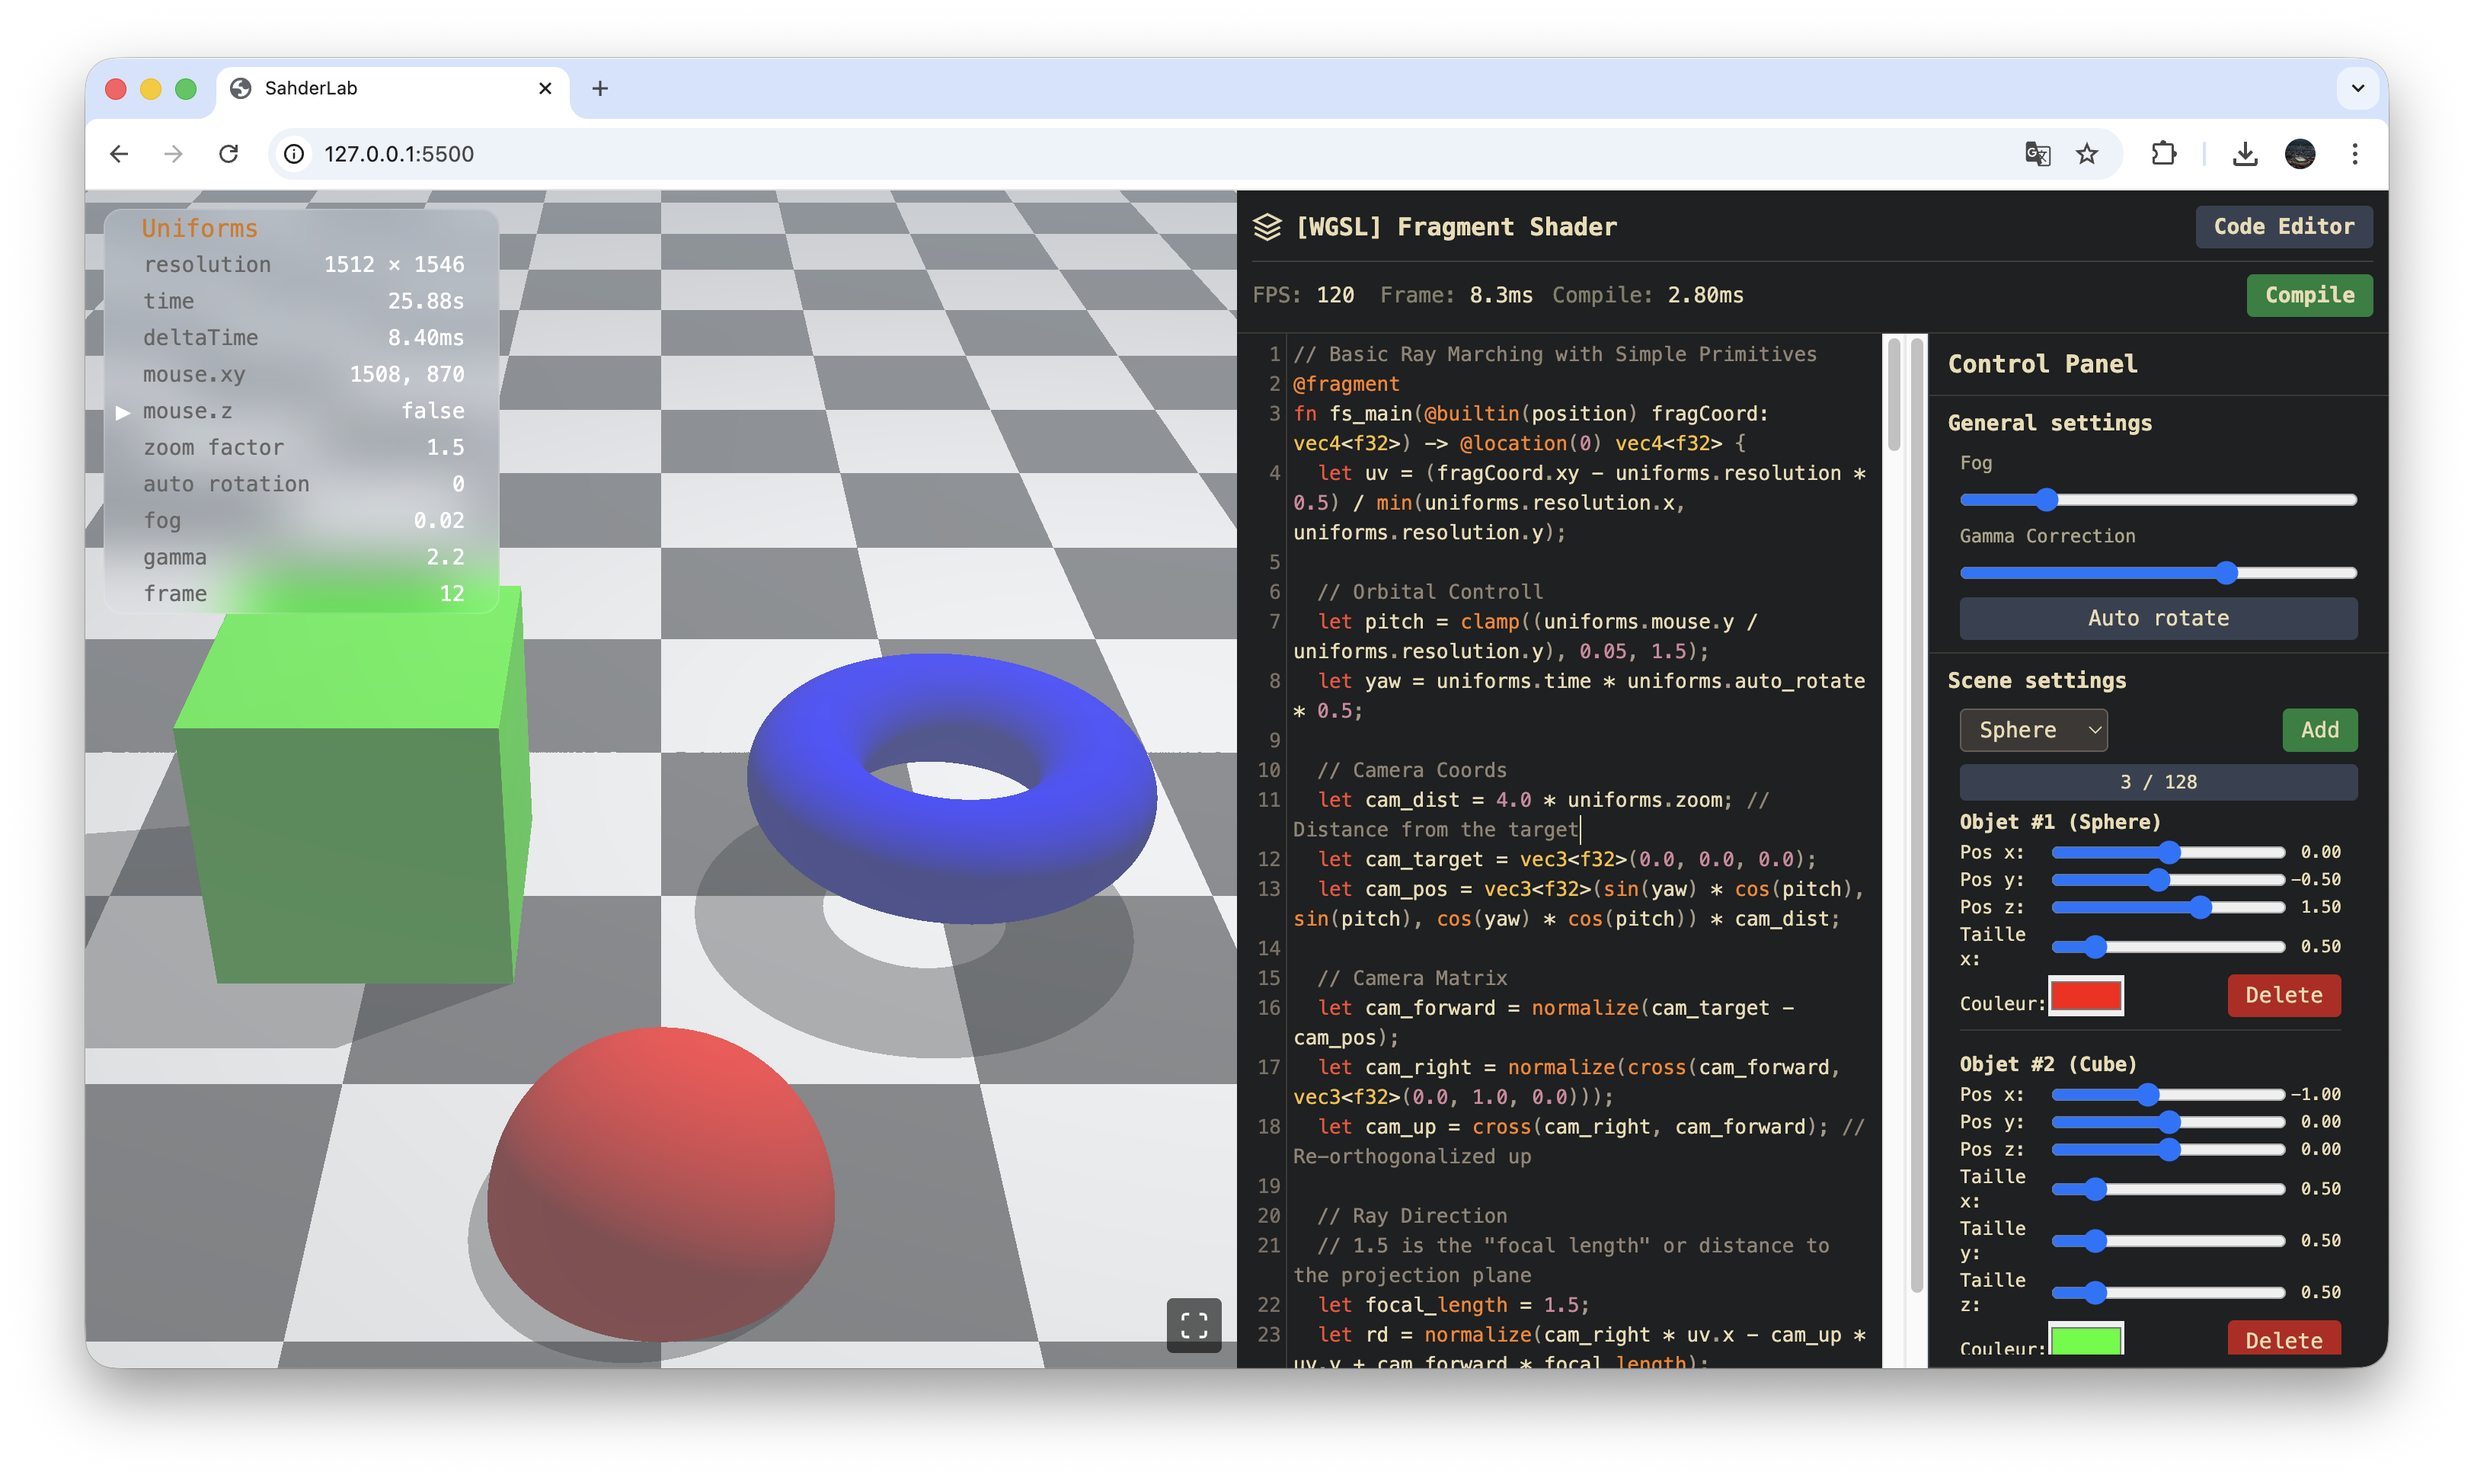
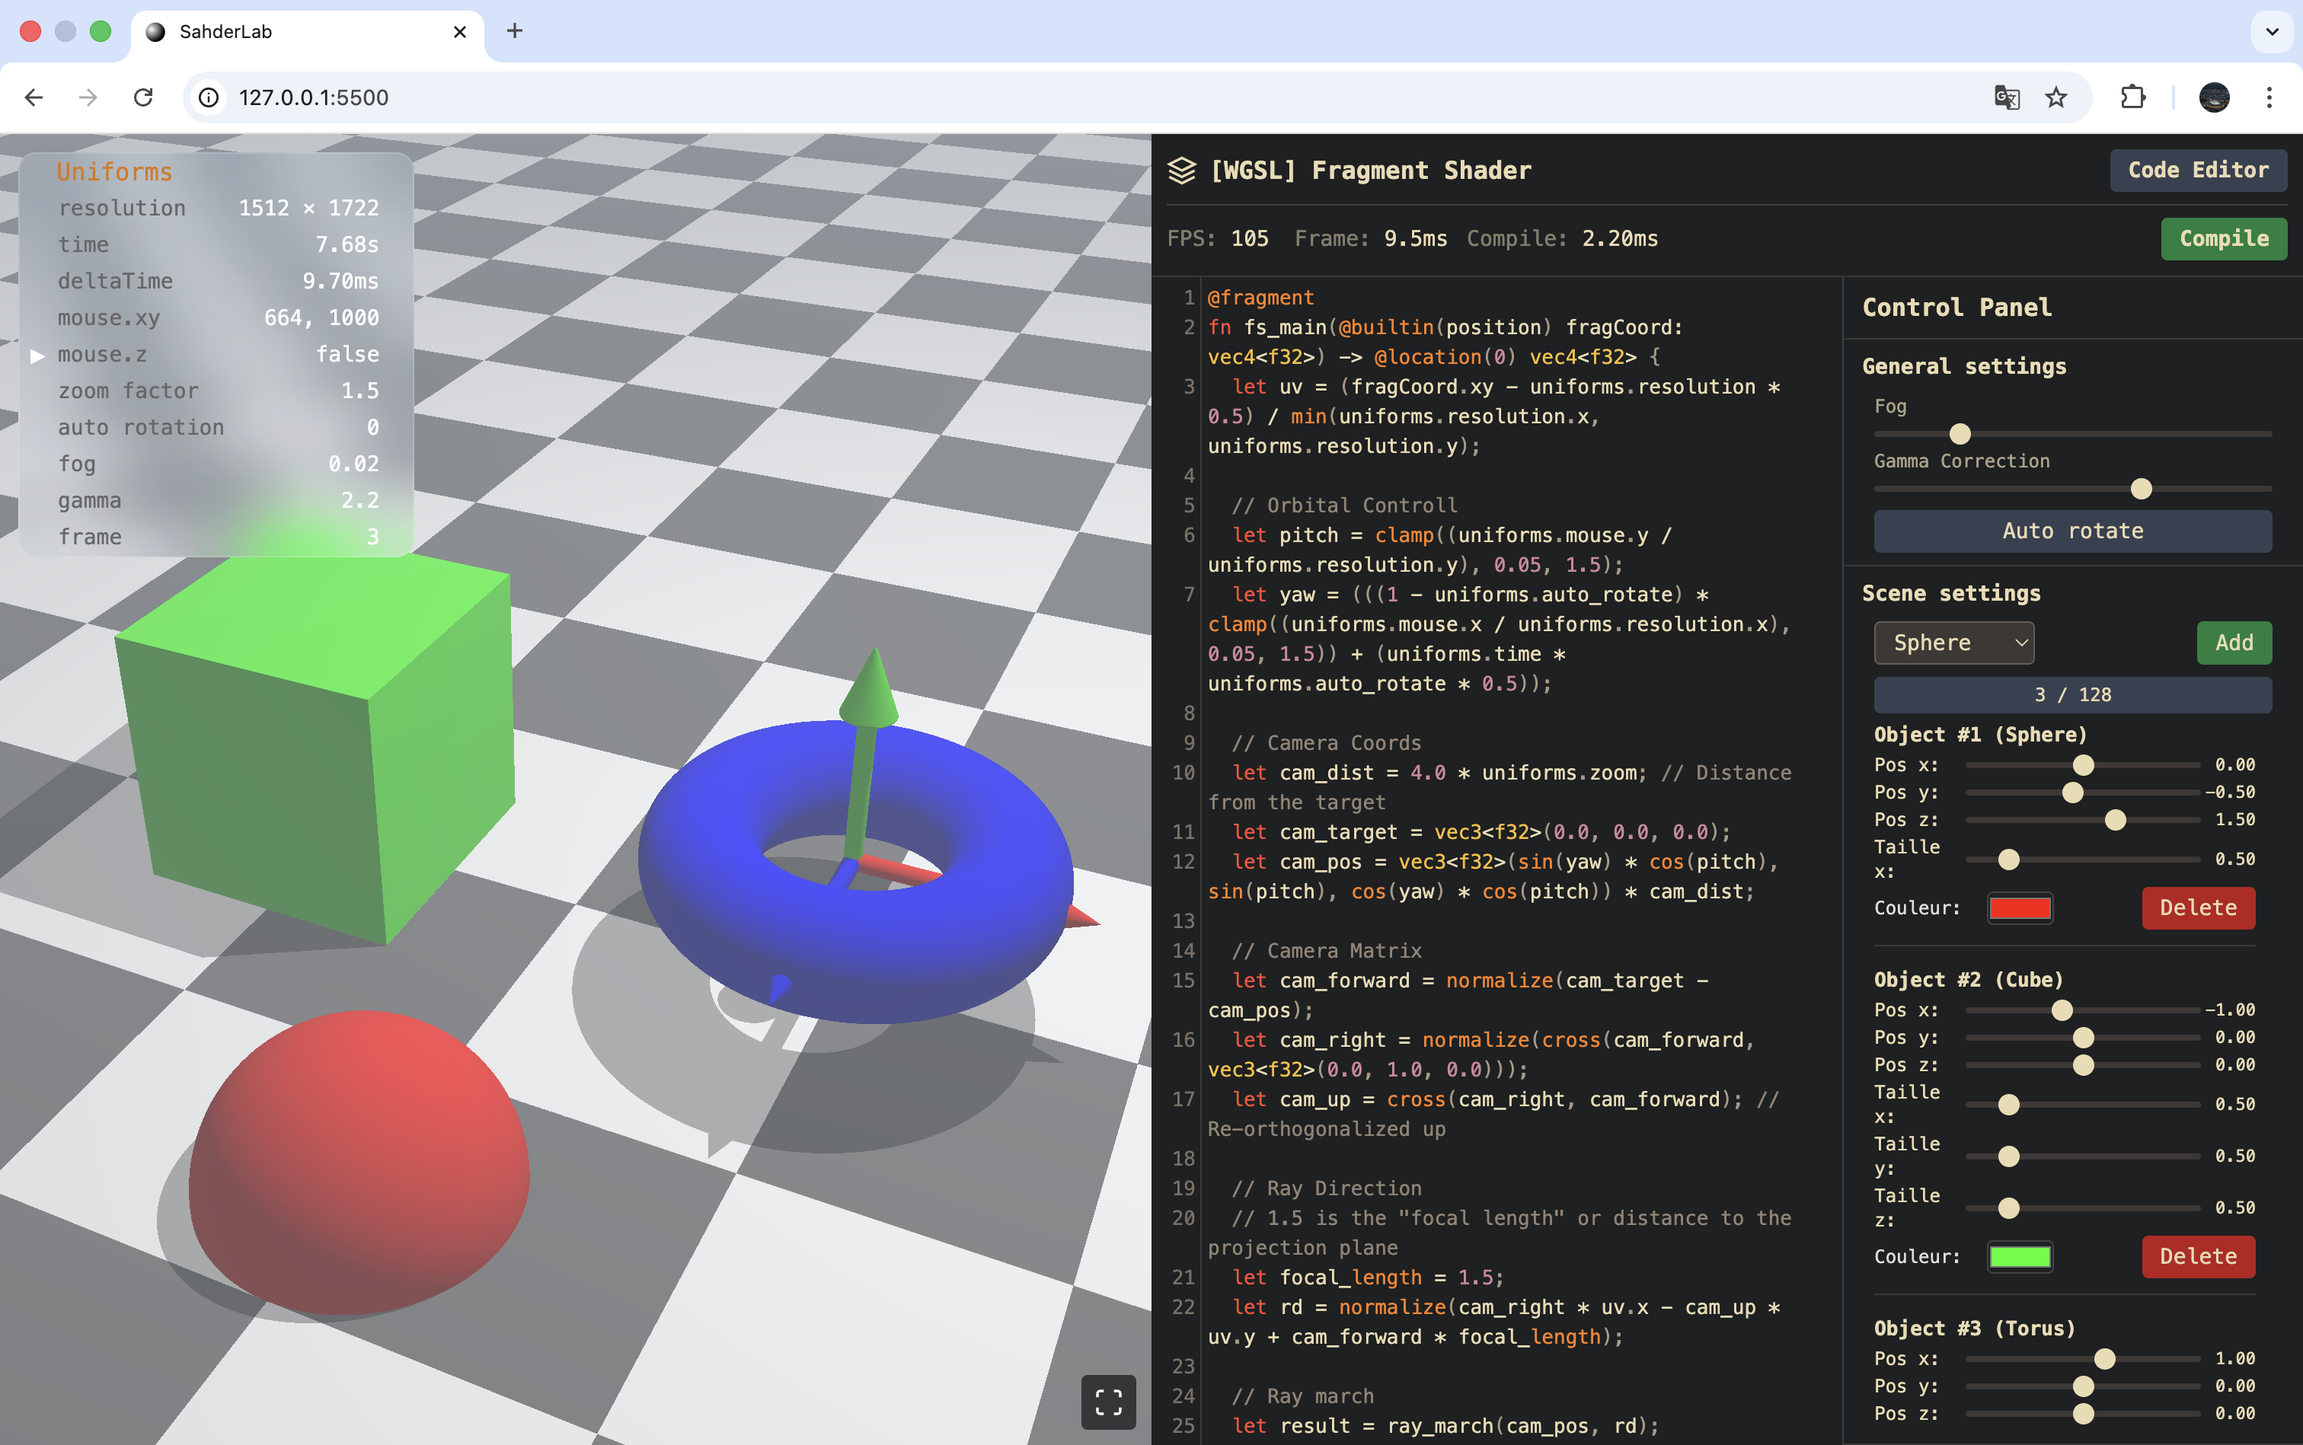
[add] keyboard delete for selected object

diff --git a/script.js b/script.js
@@ -204,14 +204,22 @@ canvas.addEventListener("mousedown", async (e) => {
   } else if (pickResult.id > 0) {
     activeObjectIndex = pickResult.id - 1;
     scene.selected_object = activeObjectIndex;
+
+    // Reset all selections
+    for (const obj of scene.objects) obj.selected = 0.0;
+
     scene.objects[activeObjectIndex].selected = 1.0;
     console.log("Selected object:", activeObjectIndex);
+
+    // Update panel immediately so the orange border appears
+    updateObjectPanel();
   } else {
     activeObjectIndex = null;
     scene.selected_object = -1;
     for (const obj of scene.objects) {
       obj.selected = 0.0;
     }
+    updateObjectPanel();
   }
 
   setEditorState(
@@ -401,6 +409,14 @@ function updateObjectPanel() {
   scene.objects.forEach((obj, idx) => {
     const container = document.createElement("div");
     container.className = "object-controls";
+    // Highlight border if selected
+    if (idx === activeObjectIndex) {
+      container.style.border = "1px solid #ffaa00";
+      container.style.padding = "4px";
+    } else {
+      container.style.border = "none";
+      container.style.padding = "";
+    }
     // Titre
     const title = document.createElement("div");
     title.textContent =
@@ -1028,6 +1044,21 @@ document.addEventListener("keydown", (e) => {
       e.preventDefault();
       toggleFullscreen();
     }
+  }
+});
+
+// Delete object with Delete or Cmd/Ctrl+Backspace
+document.addEventListener("keydown", (e) => {
+  const isDelete =
+    e.key === "Delete" || (e.key === "Backspace" && (e.metaKey || e.ctrlKey));
+  if (isDelete && activeObjectIndex !== null) {
+    scene.objects.splice(activeObjectIndex, 1);
+    scene.num_objects = scene.objects.length;
+    activeObjectIndex = null;
+    scene.selected_object = -1;
+    for (const obj of scene.objects) obj.selected = 0.0;
+    updateObjectCount();
+    updateObjectPanel();
   }
 });
 window.addEventListener("resize", resizeCanvas);

diff --git a/README.md b/README.md
@@ -4,37 +4,51 @@
 
 ## Live Demo
 
-Check out the live version deployed on Vercel: [ShaderLab Live](https://webgpu-shaderlab.vercel.app)
+Explore the live editor deployed on Vercel :  
+👉 **[ShaderLab Live](https://webgpu-shaderlab.vercel.app)**
 
 ## Overview
 
-ShaderLab is an interactive 3D scene editor built with WebGPU. Users can create and modify 3D primitives in real-time through an intuitive UI panel, with all changes instantly reflected in the ray-marched viewport.
+**ShaderLab** is an interactive 3D scene editor powered by **WebGPU**.  
+It allows you to create, edit, and manipulate ray-marched 3D primitives in real time, with an intuitive UI panel and a fully functional **3D transformation gizmo**.
+
+No shader recompilation required — everything updates live.
 
 ## Features
 
-- Real-time shader-based rendering of 3D primitives
-- Interactive scene editor UI with sliders and color pickers
-- Support for multiple primitive types (spheres, boxes, etc.)
-- Dynamic addition and selection of objects
-- Live updates to the scene without re-compiling shaders
-- Object count limiter to maintain GPU performance
+### ✅ Already Implemented
 
-> [!NOTE]
-> 3D gizmo interaction is planned as a feature and is not implemented yet.
+- [x] **Real-time shader-based rendering** of 3D primitives
+- [x] **Interactive scene editor** (sliders, color pickers, dynamic object list)
+- [x] **Add, remove, and select objects**
+- [x] **Click-to-select system via ID-based picking**
+- [x] **3D translation gizmo** (X, Y, Z axes) with drag-based movement
+- [x] **Live updates** to the scene without reloading or recompiling the shader
+- [x] **Multiple primitive types** (spheres, boxes, etc.)
+
+### 🔧 Planned Features
+
+- [ ] **Black screen during picking render pass** (to avoid visible flicker when clicking)
+- [ ] **Lock camera while dragging the gizmo**
+- [ ] **Fix auto-rotate jitter / prevent camera jump**
+- [ ] **Object transparency when selected**
+- [ ] **Selectable gizmo even through overlapping objects**
+- [ ] **Reimplement CSG operations** with a fixed UI selector (removed due to selection bugs during union operations: see commit [`29391d3`](https://github.com/julien7518/shaderlab/commit/29391d31964c865d3a0f602944fdf18ed7e9880a#diff-827a0f5887aad57d93e84d7c7f28a5426a9c66de00b772b390d42dced0740362) )
+- [ ] **Resizable right-side editor panel**
 
 ## Tech Stack
 
 - **WebGPU** for GPU-accelerated rendering
-- **WGSL** (WebGPU Shading Language) for ray marching shaders
-- **JavaScript** for UI and buffer management
-- **HTML & CSS** for interactive panel and layout
+- **WGSL** for ray marching shaders
+- **JavaScript** for scene management & UI logic
+- **HTML/CSS + Tailwind** for layout and styling
 
 ## Local Development
 
 ### Prerequisites
 
-- A modern browser with **WebGPU** support (e.g., Chrome Canary)
-- Python 3 installed for a local server (or any other local server provider)
+- A browser with **WebGPU support** (Chrome, Edge, Firefox Nightly…)
+- Python 3 (or any static server)
 
 ### Setup
 
@@ -43,7 +57,7 @@ ShaderLab is an interactive 3D scene editor built with WebGPU. Users can create 
    git clone https://github.com/yourusername/shaderlab.git
    cd shaderlab
    ```
-2. Start a local server (example if you're using python for your local server):
+2. Start a local server:
    ```bash
    python -m http.server
    ```
@@ -51,7 +65,8 @@ ShaderLab is an interactive 3D scene editor built with WebGPU. Users can create 
 
 ## Contributing
 
-Contributions and suggestions are welcome! Feel free to open issues or submit pull requests for new features like the planned 3D gizmo.
+Feature requests, issues and pull requests are always welcome!
+Feel free to contribute improvements, especially on UI/UX or planned features.
 
 ## License
 
